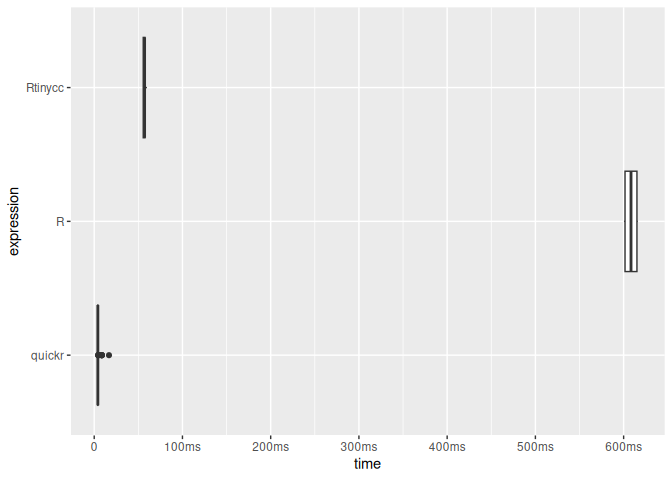
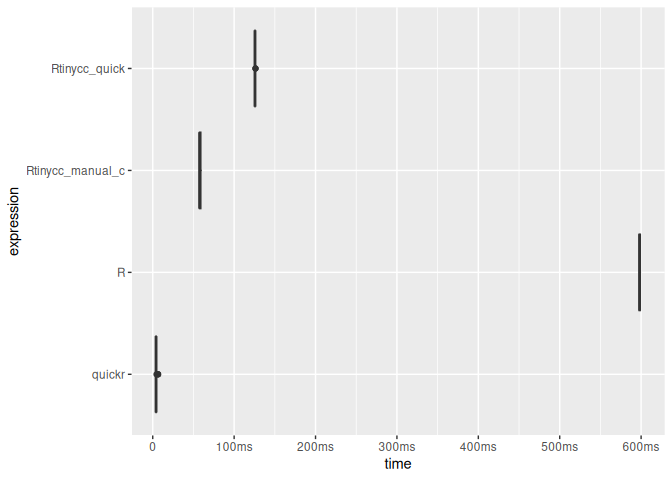
tcc_quick

diff --git a/README.md b/README.md
@@ -177,7 +177,7 @@ tcc_read_cstring(ptr)
 tcc_read_bytes(ptr, 5)
 #> [1] 68 65 6c 6c 6f
 tcc_ptr_addr(ptr, hex = TRUE)
-#> [1] "0x62d181c02f20"
+#> [1] "0x577f797bd150"
 tcc_ptr_is_null(ptr)
 #> [1] FALSE
 tcc_free(ptr)
@@ -208,11 +208,11 @@ through output parameters.
 ptr_ref <- tcc_malloc(.Machine$sizeof.pointer %||% 8L)
 target <- tcc_malloc(8)
 tcc_ptr_set(ptr_ref, target)
-#> <pointer: 0x62d183c192e0>
+#> <pointer: 0x577f795068c0>
 tcc_data_ptr(ptr_ref)
-#> <pointer: 0x62d1819810e0>
+#> <pointer: 0x577f7bde72a0>
 tcc_ptr_set(ptr_ref, tcc_null_ptr())
-#> <pointer: 0x62d183c192e0>
+#> <pointer: 0x577f795068c0>
 tcc_free(target)
 #> NULL
 tcc_free(ptr_ref)
@@ -276,7 +276,7 @@ bench::mark(
 #>   expression      min   median `itr/sec` mem_alloc `gc/sec`
 #>   <bch:expr> <bch:tm> <bch:tm>     <dbl> <bch:byt>    <dbl>
 #> 1 Rtinycc       901ms    901ms      1.11   134.1MB    11.1 
-#> 2 Rbuiltin      535µs    568µs   1632.      9.05KB     8.00
+#> 2 Rbuiltin      532µs    568µs   1198.      9.05KB     6.20
 
 # For performance-sensitive code, move the loop into C and operate on arrays.
 ffi_vec <- tcc_ffi() |>
@@ -305,8 +305,8 @@ bench::mark(
 #> # A tibble: 2 × 6
 #>   expression        min   median `itr/sec` mem_alloc `gc/sec`
 #>   <bch:expr>   <bch:tm> <bch:tm>     <dbl> <bch:byt>    <dbl>
-#> 1 Rtinycc_vec    97.1µs    104µs     9449.    52.8KB     10.6
-#> 2 Rbuiltin_vec   16.9µs   17.6µs    54350.    78.2KB     65.3
+#> 1 Rtinycc_vec    96.5µs  103.9µs     9561.    52.8KB     6.16
+#> 2 Rbuiltin_vec   16.9µs   18.4µs    51533.    78.2KB    41.3
 ```
 
 ### Variadic calls (e.g. `Rprintf` style)
@@ -428,7 +428,7 @@ ffi <- tcc_ffi() |>
 
 x <- as.integer(1:100) # to avoid ALTREP
 .Internal(inspect(x))
-#> @62d19022f0a8 13 INTSXP g0c0 [REF(65535)]  1 : 100 (compact)
+#> @577f90050e58 13 INTSXP g0c0 [REF(65535)]  1 : 100 (compact)
 ffi$sum_array(x, length(x))
 #> [1] 5050
 
@@ -444,15 +444,14 @@ y[1]
 #> [1] 11
 
 .Internal(inspect(x))
-#> @62d19022f0a8 13 INTSXP g0c0 [REF(65535)]  11 : 110 (expanded)
+#> @577f90050e58 13 INTSXP g0c0 [REF(65535)]  11 : 110 (expanded)
 ```
 
 ### Benchmark
 
 This example benchmarks the classic convolution routine written in plain
 C (no manual `SEXP` code). Rtinycc generates the `.Call` wrappers
-automatically. We also compare against `quickr` which is expected to be
-faster due to compiler optimiztion.
+automatically. We also compare against `quickr` and `tcc_quick`.
 
 ``` r
 library(quickr)
@@ -498,19 +497,27 @@ nb <- length(b)
 nab <- na + nb - 1L
 
 quick_convolve <- quick(slow_convolve)
+quick_tcc <- tcc_quick(slow_convolve, fallback = "never")
+
+stopifnot(
+  isTRUE(all.equal(slow_convolve(a, b), quick_tcc(a, b), tolerance = 1e-10))
+)
+
 timings <- bench::mark(
   R = slow_convolve(a, b),
   quickr = quick_convolve(a, b),
-  Rtinycc = ffi_conv$convolve(a, na, b, nb, nab),
+  Rtinycc_quick = quick_tcc(a, b),
+  Rtinycc_manual_c = ffi_conv$convolve(a, na, b, nb, nab),
   min_time = 2
 )
 timings
-#> # A tibble: 3 × 6
-#>   expression      min   median `itr/sec` mem_alloc `gc/sec`
-#>   <bch:expr> <bch:tm> <bch:tm>     <dbl> <bch:byt>    <dbl>
-#> 1 R          600.59ms 601.91ms      1.65     844KB    0.550
-#> 2 quickr       3.77ms   4.12ms    242.       782KB    3.09 
-#> 3 Rtinycc     55.47ms  57.08ms     17.6      796KB    0.504
+#> # A tibble: 4 × 6
+#>   expression            min   median `itr/sec` mem_alloc `gc/sec`
+#>   <bch:expr>       <bch:tm> <bch:tm>     <dbl> <bch:byt>    <dbl>
+#> 1 R                597.58ms 598.18ms      1.67     782KB     0   
+#> 2 quickr             3.72ms   4.08ms    245.       782KB     2.03
+#> 3 Rtinycc_quick    125.46ms 125.62ms      7.95     796KB     0   
+#> 4 Rtinycc_manual_c  56.96ms  57.61ms     17.2      796KB     0
 plot(timings, type = "boxplot") + bench::scale_x_bench_time(base = NULL)
 ```
 
@@ -538,15 +545,15 @@ ffi <- tcc_ffi() |>
 
 p1 <- ffi$struct_point_new()
 ffi$struct_point_set_x(p1, 0.0)
-#> <pointer: 0x62d19efb58f0>
+#> <pointer: 0x577f93616ef0>
 ffi$struct_point_set_y(p1, 0.0)
-#> <pointer: 0x62d19efb58f0>
+#> <pointer: 0x577f93616ef0>
 
 p2 <- ffi$struct_point_new()
 ffi$struct_point_set_x(p2, 3.0)
-#> <pointer: 0x62d19b9e9ff0>
+#> <pointer: 0x577f87145990>
 ffi$struct_point_set_y(p2, 4.0)
-#> <pointer: 0x62d19b9e9ff0>
+#> <pointer: 0x577f87145990>
 
 ffi$distance(p1, p2)
 #> [1] 5
@@ -591,9 +598,9 @@ ffi <- tcc_ffi() |>
 
 s <- ffi$struct_flags_new()
 ffi$struct_flags_set_active(s, 1L)
-#> <pointer: 0x62d187243de0>
+#> <pointer: 0x577f917b4090>
 ffi$struct_flags_set_level(s, 9L)
-#> <pointer: 0x62d187243de0>
+#> <pointer: 0x577f917b4090>
 ffi$struct_flags_get_active(s)
 #> [1] 1
 ffi$struct_flags_get_level(s)
@@ -885,7 +892,7 @@ ffi <- tcc_ffi() |>
   tcc_compile()
 
 ffi$struct_point_new()
-#> <pointer: 0x62d18b9bc420>
+#> <pointer: 0x577f96821790>
 ffi$enum_status_OK()
 #> [1] 0
 ffi$global_global_counter_get()
@@ -901,7 +908,7 @@ on linux
 if (Sys.info()[["sysname"]] == "Linux") {
   c_file <- system.file("c_examples", "io_uring_csv.c", package = "Rtinycc")
 
-  n_rows <- 2000000L
+  n_rows <- 200000L
   n_cols <- 8L
   block_size <- 1024L * 1024L
 
@@ -997,19 +1004,18 @@ if (Sys.info()[["sysname"]] == "Linux") {
   
   plot(timings, type = "boxplot") + bench::scale_x_bench_time(base = NULL)
 }
-#> CSV size: 274.66 MB
+#> CSV size: 27.47 MB
 #> Warning: Some expressions had a GC in every iteration; so filtering is
 #> disabled.
 #> # A tibble: 5 × 13
-#>   expression               min   median `itr/sec` mem_alloc `gc/sec` n_itr  n_gc
-#>   <bch:expr>          <bch:tm> <bch:tm>     <dbl> <bch:byt>    <dbl> <int> <dbl>
-#> 1 read_table_df          7.34s   10.59s    0.0944     494MB    0.189     2     4
-#> 2 vroom_df_altrep_fa… 223.38ms 446.76ms    2.24       122MB    1.12      2     1
-#> 3 vroom_df_altrep_fa… 207.07ms 741.08ms    1.35       122MB    0.675     2     1
-#> 4 c_read_df              2.03s    2.03s    0.492      122MB    0         2     0
-#> 5 io_uring_df            2.03s    2.05s    0.489      122MB    0         2     0
-#> # ℹ 5 more variables: total_time <bch:tm>, result <list>, memory <list>,
-#> #   time <list>, gc <list>
+#>   expression      min median `itr/sec` mem_alloc `gc/sec` n_itr  n_gc total_time
+#>   <bch:expr>  <bch:t> <bch:>     <dbl> <bch:byt>    <dbl> <int> <dbl>   <bch:tm>
+#> 1 read_table… 716.5ms  776ms      1.29    55.6MB     1.29     2     2      1.55s
+#> 2 vroom_df_a…  26.9ms   80ms     12.5     12.2MB     6.25     2     1   160.03ms
+#> 3 vroom_df_a…  26.3ms   30ms     33.3     12.2MB     0        2     0    60.05ms
+#> 4 c_read_df   202.2ms  277ms      3.61    12.2MB     1.80     2     1   554.73ms
+#> 5 io_uring_df 205.5ms  209ms      4.78    12.2MB     0        2     0   418.31ms
+#> # ℹ 4 more variables: result <list>, memory <list>, time <list>, gc <list>
 ```
 
 <img src="man/figures/README-io_uring-demo-1.png" width="100%" />
@@ -1060,11 +1066,11 @@ ffi <- tcc_ffi() |>
 o <- ffi$struct_outer_new()
 i <- ffi$struct_inner_new()
 ffi$struct_inner_set_a(i, 42L)
-#> <pointer: 0x62d186763690>
+#> <pointer: 0x577f820c1f00>
 
 # Write the inner pointer into the outer struct
 ffi$struct_outer_in_addr(o) |> tcc_ptr_set(i)
-#> <pointer: 0x62d1a006c2c0>
+#> <pointer: 0x577f9338dd90>
 
 # Read it back through indirection
 ffi$struct_outer_in_addr(o) |>
@@ -1093,9 +1099,9 @@ ffi <- tcc_ffi() |>
 
 b <- ffi$struct_buf_new()
 ffi$struct_buf_set_data_elt(b, 0L, 0xCAL)
-#> <pointer: 0x62d19ac20700>
+#> <pointer: 0x577f96b302a0>
 ffi$struct_buf_set_data_elt(b, 1L, 0xFEL)
-#> <pointer: 0x62d19ac20700>
+#> <pointer: 0x577f96b302a0>
 ffi$struct_buf_get_data_elt(b, 0L)
 #> [1] 202
 ffi$struct_buf_get_data_elt(b, 1L)
